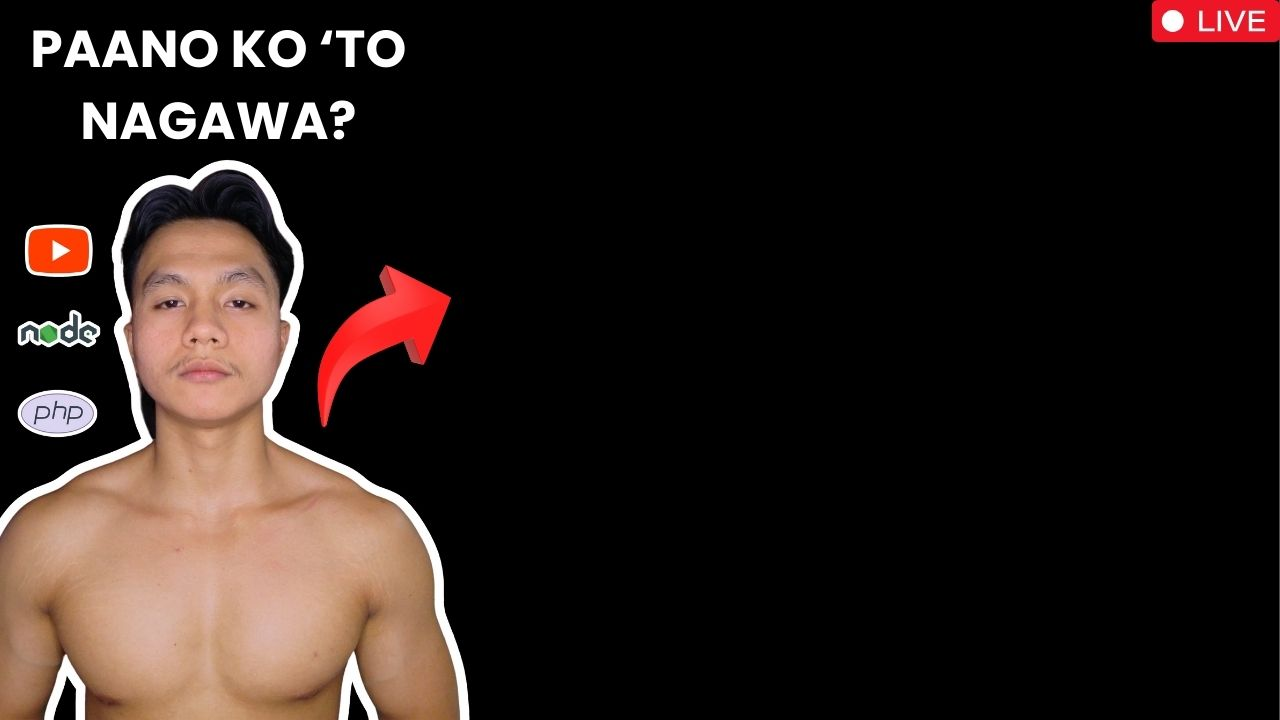
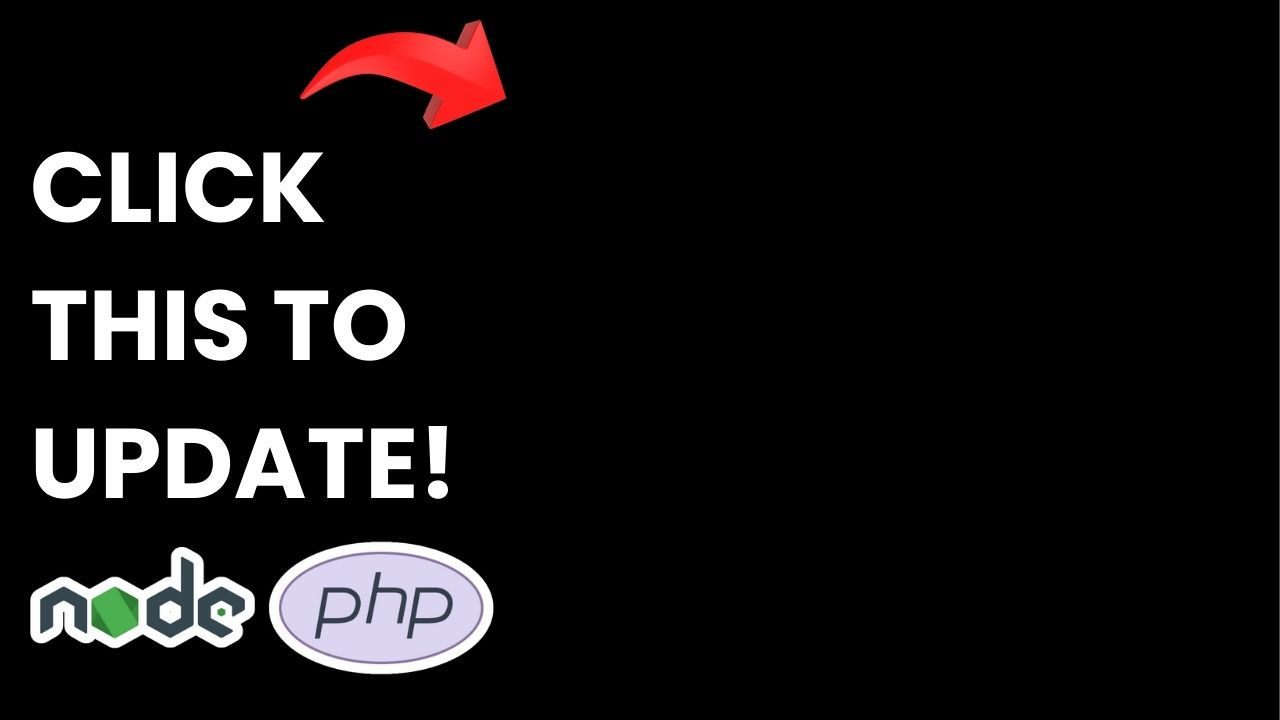
BETA: Thumbnail base and title changed

Changed region(s): [[0.0, 0.0306, 0.4062, 1.0], [0.875, 0.0, 1.0, 0.0611]]

diff --git a/processor/app/service.js b/processor/app/service.js
@@ -50,7 +50,8 @@ const updateVideoDetails = async ({
             return;
         }
         const video = response.data.items[0];
-        video.snippet.title = `ANG VIDEO NA 'TO AY MERONG ${formatNumber(views, 100000)} VIEWS, ${formatNumber(likes, 10000)} LIKES AT ${formatNumber(comments, 10000)} COMMENTS`;
+        video.snippet.title = `MAYROONG ${formatNumber(views, 100000)} VIEWS ANG VIDEO NA 'TO`;
+        // video.snippet.title = `ANG VIDEO NA 'TO AY MERONG ${formatNumber(views, 100000)} VIEWS, ${formatNumber(likes, 10000)} LIKES AT ${formatNumber(comments, 10000)} COMMENTS`;
         const updatedResponse = await youtube.videos.update({
             part: 'snippet',
             requestBody: {
